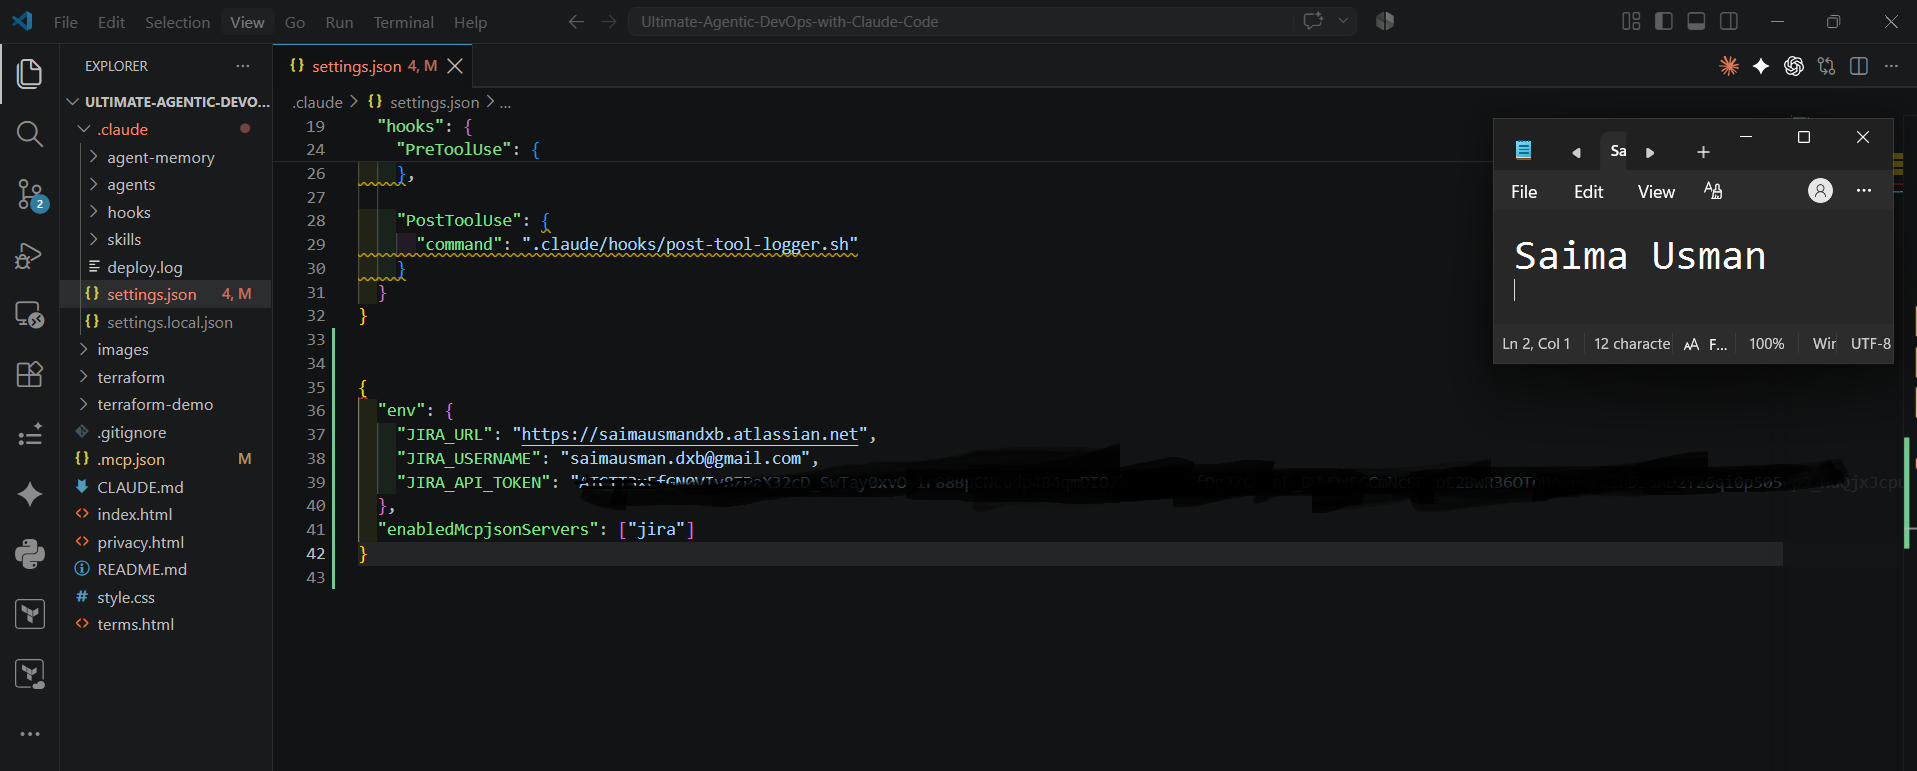
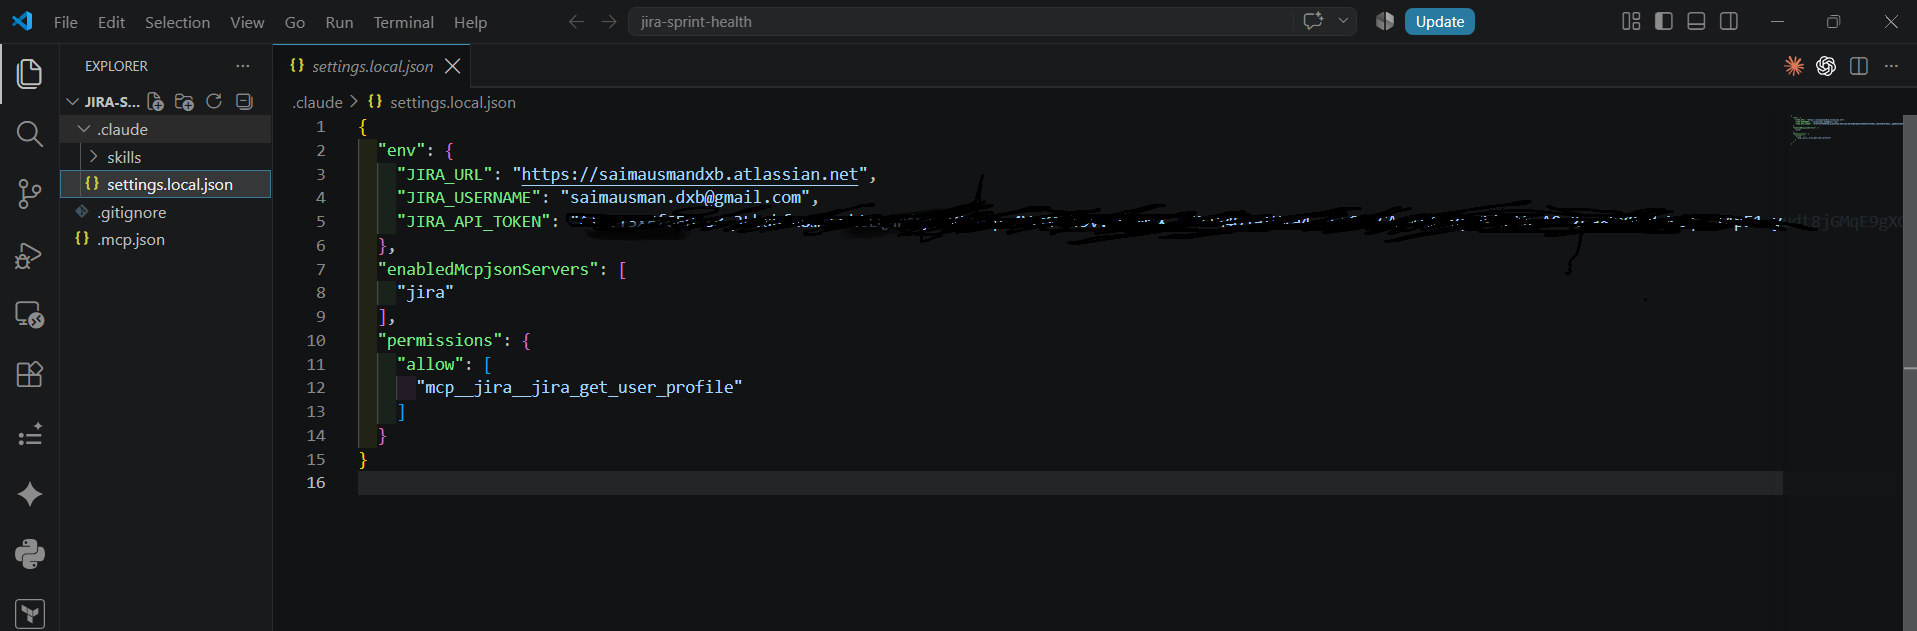
Updated README.md

diff --git a/README.md b/README.md
@@ -127,7 +127,7 @@ This is not a course. It is an internship-style program — real deployments, re
 | 03 | Linux for DevOps | ✅ Started | ✅ Completed | https://www.linkedin.com/posts/saima-usman_aws-ec2-reactjs-share-7483482307090190337--FeG/?utm_source=share&utm_medium=member_desktop&rcm=ACoAABsfrYoBkq_t-PkQCt7fEB9Ajmp98YTHl_g | https://www.linkedin.com/pulse/my-devops-learning-journey-starting-linux-saima-usman-1elpf |
 | 04 | Bash Scripting | ✅ Started | ✅ Completed | https://www.linkedin.com/posts/saima-usman_devops-linux-bash-share-7483973193347534848-Kv5e/?utm_source=share&utm_medium=member_desktop&rcm=ACoAABsfrYoBkq_t-PkQCt7fEB9Ajmp98YTHl_g | https://medium.com/@saimausman.dxb/ai-assisted-linux-incident-triage-with-bash-and-claude-code-building-an-agentic-devops-workflow-8a40ff5706b2?sharedUserId=saimausman.dxb |
 | 05 | Git & GitHub | ✅ Started | ✅ Completed | https://www.linkedin.com/posts/saima-usman_devops-git-githooks-share-7487585723110486016-3vQQ/?utm_source=share&utm_medium=member_desktop&rcm=ACoAABsfrYoBkq_t-PkQCt7fEB9Ajmp98YTHl_g | https://medium.com/@saimausman.dxb/from-git-init-to-ai-assisted-git-safety-my-journey-learning-git-github-in-the-devops-micro-9961149f79ed?sharedUserId=saimausman.dxb |
-| 06 | DevOps Lifecycle & Agile | ✅ Started | ✅ Completed | https://www.linkedin.com/posts/saima-usman_mcp-modelcontextprotocol-agenticai-share-7493224575980339200-rf0j/?utm_source=share&utm_medium=member_desktop&rcm=ACoAABsfrYoBkq_t-PkQCt7fEB9Ajmp98YTHl_g | — |
+| 06 | DevOps Lifecycle & Agile | ✅ Started | ✅ Completed | https://www.linkedin.com/posts/saima-usman_mcp-modelcontextprotocol-agenticai-share-7493224575980339200-rf0j/?utm_source=share&utm_medium=member_desktop&rcm=ACoAABsfrYoBkq_t-PkQCt7fEB9Ajmp98YTHl_g | https://medium.com/@saimausman.dxb/building-an-ai-assisted-sprint-health-report-with-jira-mcp-and-claude-code-51af752ceb4c?sharedUserId=saimausman.dxb |
 | 07 | AWS Cloud | ✅ Started | ⏳ Pending | — | — |
 | 08 | Azure Cloud | ⬜ Not Started | ⏳ Pending | — | — |
 | 09 | Terraform | ⬜ Not Started | ⏳ Pending | — | — |
